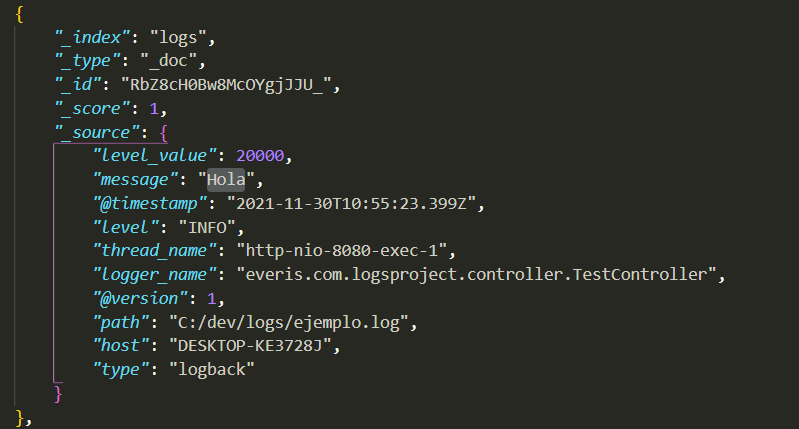
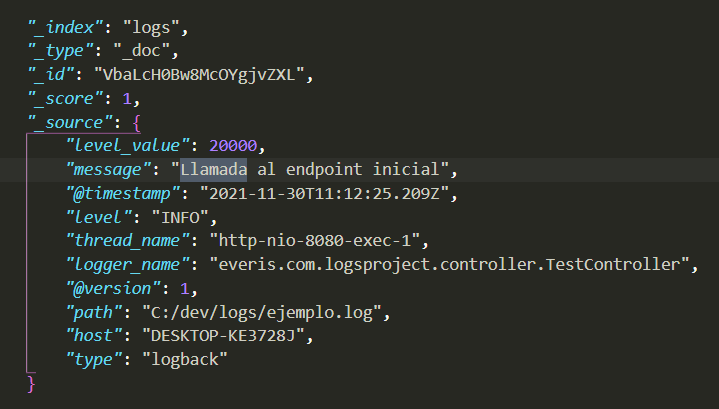
Changed proof.png

Changed region(s): [[0.0, 0.0293, 0.9791, 0.9976], [0.0, 0.0293, 0.0306, 0.0587]]

diff --git a/src/main/java/everis/com/logsproject/controller/TestController.java b/src/main/java/everis/com/logsproject/controller/TestController.java
@@ -15,8 +15,8 @@ public class TestController {
 
 	@GetMapping("/")
 	public ResponseEntity<String> saludo(){
-		logger.info("Hola");
-		return new ResponseEntity<String>(HttpStatus.OK);
+		logger.info("Llamada al endpoint inicial");
+		return new ResponseEntity<String>(HttpStatus.OK).ok("Hola");
 	}
 	
 }
